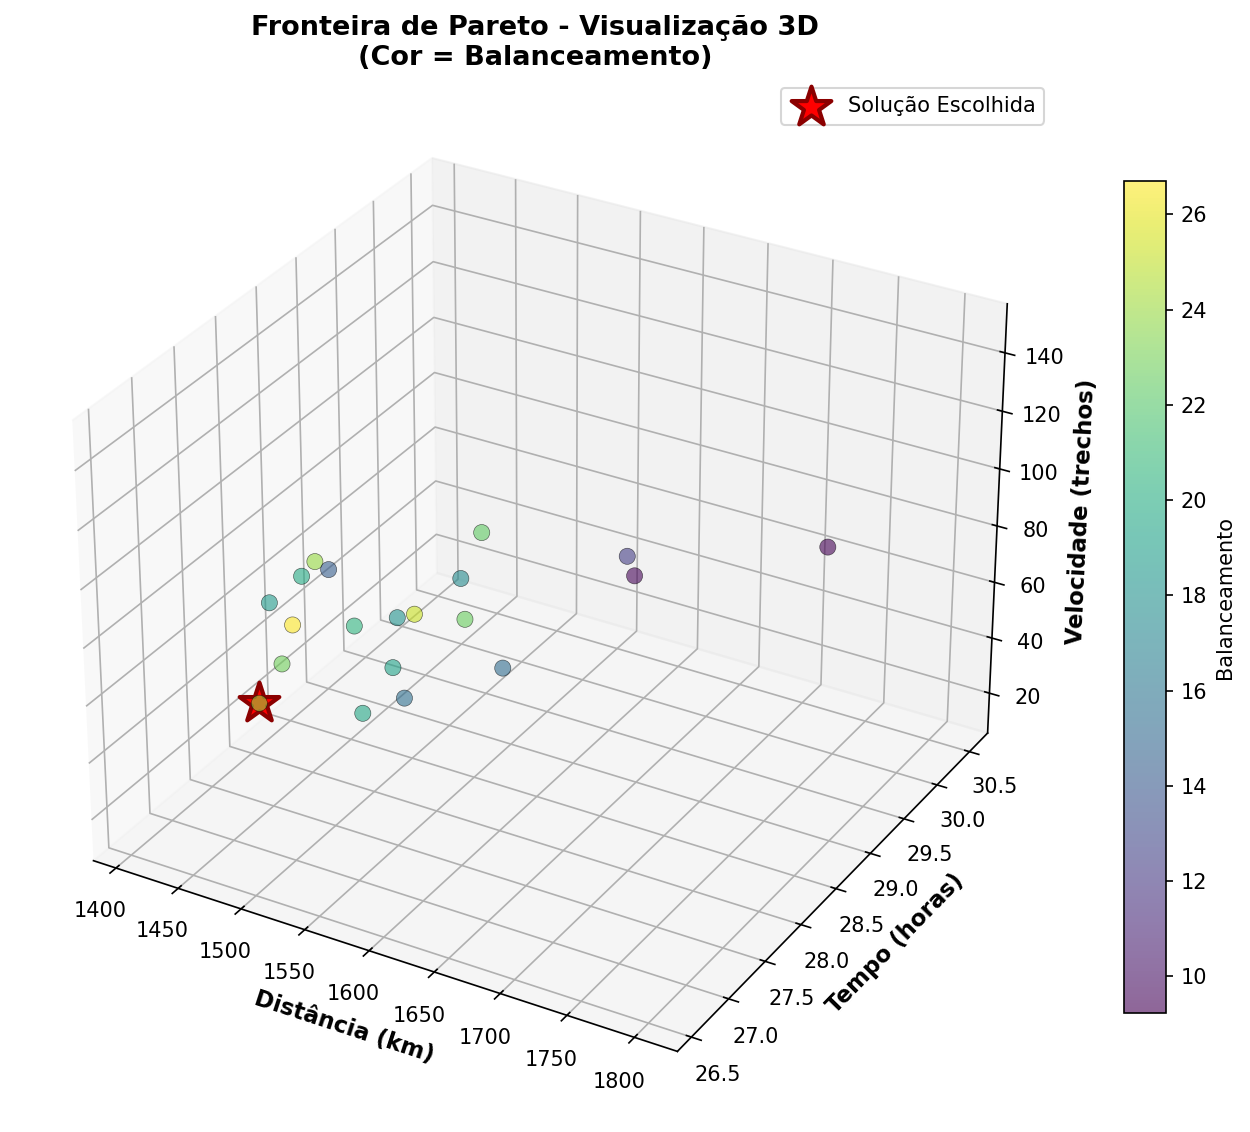
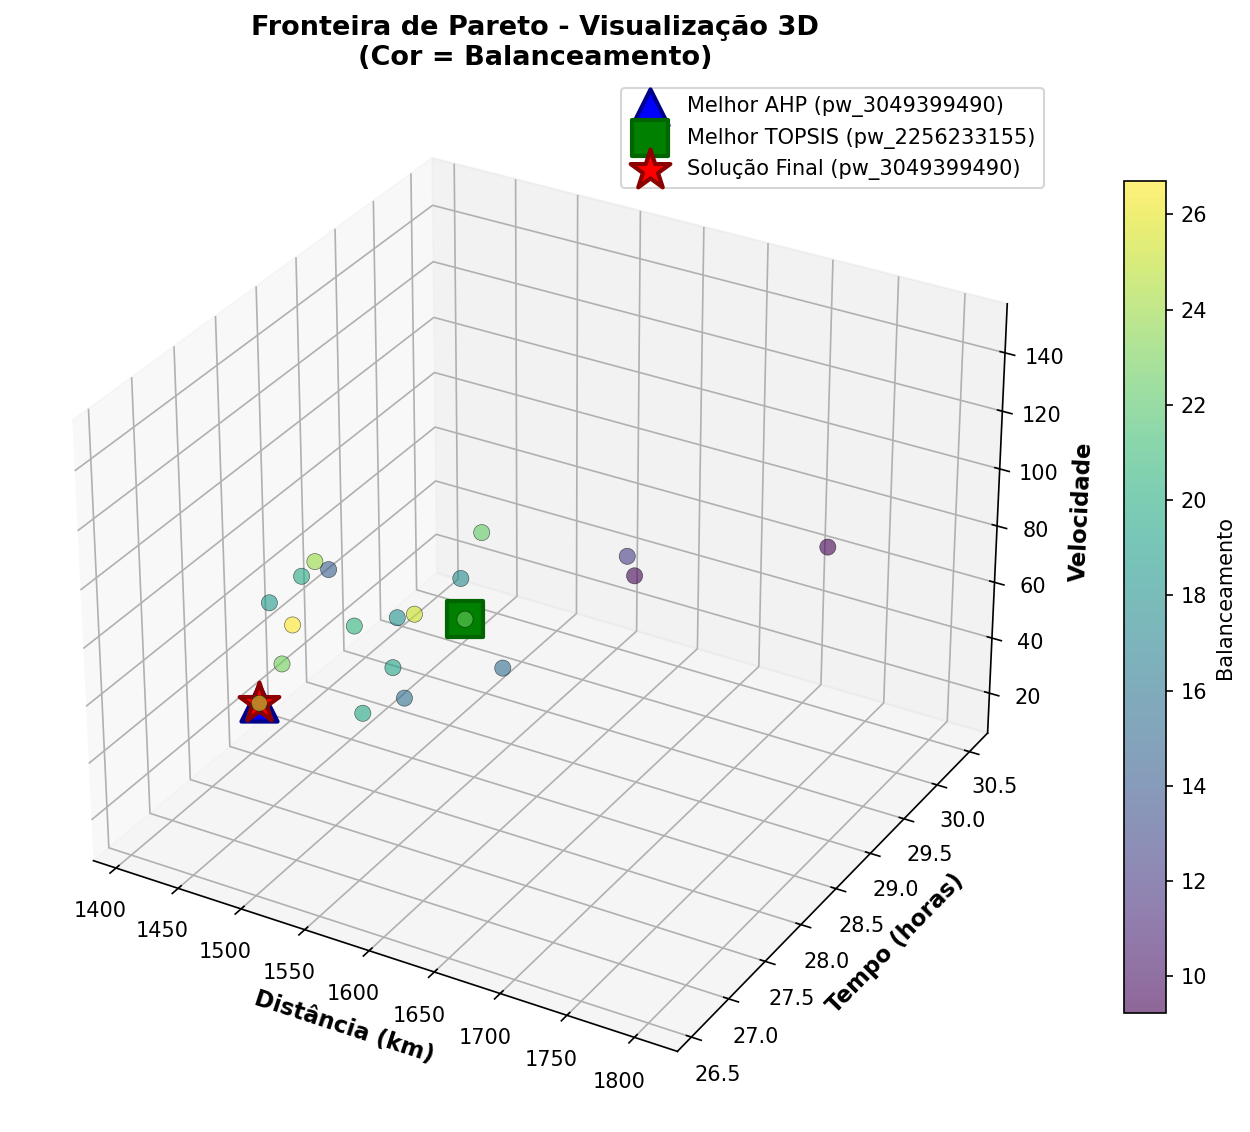
Refactor plotting functions and remove outdated figures
- Removed the plotting code for the Pareto front with TOPSIS ranking and its associated output file.
- Added markers for the best solutions identified by AHP and TOPSIS in the 3D plot.
- Updated labels for the final solution in the 3D plot.
- Adjusted output messages to reflect the changes in saved figures.

diff --git a/TD_TC3_Decisao_Multicriterio.py b/TD_TC3_Decisao_Multicriterio.py
@@ -470,40 +470,7 @@ plt.tight_layout()
 plt.savefig(output_dir / "fronteira_metodos.png", dpi=150)
 plt.close()
 
-# Fronteira com ranking por cores (estilo TD_ENTREGA2)
-plt.figure(figsize=(12, 8))
-scatter = plt.scatter(
-    df_analise['tempo'],
-    df_analise['distancia'],
-    c=df_analise['Rank_TOPSIS'],
-    cmap='RdYlGn',
-    alpha=0.8,
-    s=100,
-    edgecolors='black',
-    linewidth=0.5,
-)
-plt.scatter(
-    solucao_final['tempo'],
-    solucao_final['distancia'],
-    color='blue',
-    s=400,
-    marker='*',
-    edgecolors='darkblue',
-    linewidth=2,
-    label='Solução Escolhida',
-    zorder=10,
-)
-plt.colorbar(scatter, label='Rank TOPSIS (menor = melhor)')
-plt.xlabel("Tempo (h)", fontsize=12)
-plt.ylabel("Distância (km)", fontsize=12)
-plt.title("Fronteira de Pareto - Ranking TOPSIS", fontsize=14, fontweight='bold')
-plt.legend(fontsize=10)
-plt.grid(True, alpha=0.3)
-plt.tight_layout()
-plt.savefig(output_dir / "fronteira_ranking_topsis.png", dpi=150)
-plt.close()
-
-print("Figuras estilo TD_ENTREGA2 salvas em outputs/")
+print("Figura fronteira_metodos salva em outputs/")
 
 # =============================================================================
 # Figuras originais do script
@@ -590,6 +557,37 @@ scatter = ax.scatter(
     linewidth=0.3,
 )
 
+# Melhor solução AHP (menor score)
+melhor_ahp = df_analise.loc[df_analise['Score_AHP'].idxmin()]
+ax.scatter(
+    melhor_ahp['distancia'],
+    melhor_ahp['tempo'],
+    melhor_ahp['velocidade'],
+    color='blue',
+    s=300,
+    marker='^',
+    edgecolors='darkblue',
+    linewidth=2,
+    label=f'Melhor AHP ({melhor_ahp["id"]})',
+    zorder=10,
+)
+
+# Melhor solução TOPSIS (maior score)
+melhor_topsis = df_analise.loc[df_analise['Score_TOPSIS'].idxmax()]
+ax.scatter(
+    melhor_topsis['distancia'],
+    melhor_topsis['tempo'],
+    melhor_topsis['velocidade'],
+    color='green',
+    s=300,
+    marker='s',
+    edgecolors='darkgreen',
+    linewidth=2,
+    label=f'Melhor TOPSIS ({melhor_topsis["id"]})',
+    zorder=10,
+)
+
+# Solução final escolhida
 ax.scatter(
     solucao_final['distancia'],
     solucao_final['tempo'],
@@ -599,7 +597,8 @@ ax.scatter(
     marker='*',
     edgecolors='darkred',
     linewidth=2,
-    label='Solução Escolhida',
+    label=f'Solução Final ({solucao_final["id"]})',
+    zorder=11,
 )
 
 ax.set_xlabel('Distância (km)', fontsize=11, fontweight='bold')
@@ -746,8 +745,7 @@ for attr, valor, media in zip(atributos_print, valores, valores_media):
 print("=" * 80)
 
 print("\nFiguras salvas em outputs/:")
-print("  - fronteira_metodos.png (estilo TD_ENTREGA2)")
-print("  - fronteira_ranking_topsis.png (estilo TD_ENTREGA2)")
+print("  - fronteira_metodos.png")
 print("  - figura_fronteira_solucao.png")
 print("  - figura_fronteira_3d.png")
 print("  - figura_solucao_final.png")
